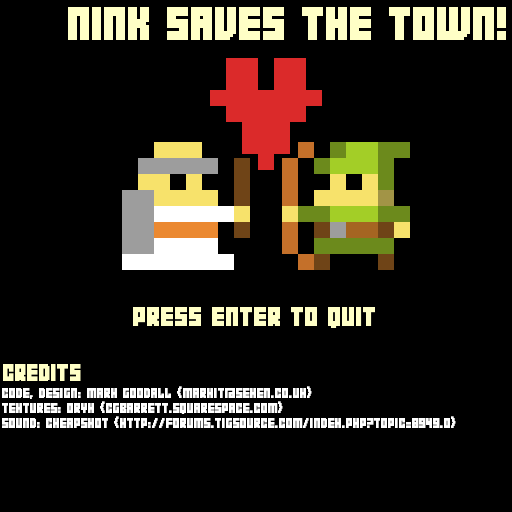
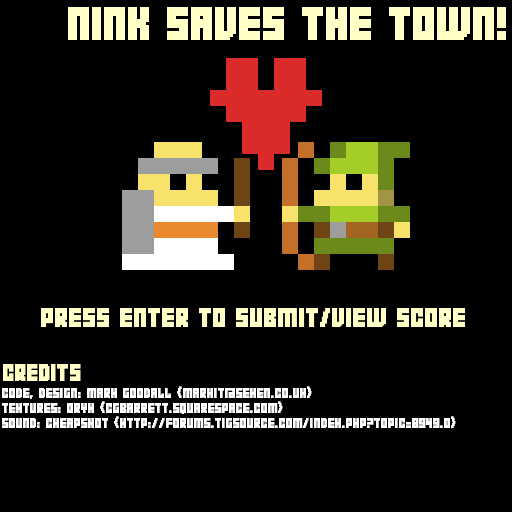
Added score submission, updated win page, added healthbar

Changed region(s): [[0.0625, 0.5938, 0.9062, 0.6562]]

diff --git a/app.py b/app.py
@@ -18,7 +18,7 @@ from friendly import Friendly
 from enemy import Enemy
 from gold import Gold
 from arrow import Arrow
-import time
+import webbrowser, hashlib
 
 def clamp(start, end, value):
 	'''
@@ -57,6 +57,10 @@ class Application(pyglet.window.Window):
 		self.winTexture = Texture.open('images/win.png', unit=GL_TEXTURE0, filter=GL_NEAREST)
 		self.make_menu_mesh()
 		
+		# Healthbar
+		self.heart = Texture.open('images/heart.png', unit=GL_TEXTURE0, filter=GL_NEAREST)
+		self.make_heart_meshes()
+		
 		# Sounds
 		self.bg_music = pyglet.media.load('sound/TIGshot.mp3')
 		self.win_sound = pyglet.media.load('sound/win.wav')
@@ -78,6 +82,7 @@ class Application(pyglet.window.Window):
 		self.program.vars.tex = Sampler2D(GL_TEXTURE0)
 		
 		# Map
+		self.map_name = map_name
 		mapimg = pyglet.image.load('map/'+map_name+'.png')
 		self.ground = self.create_ground(mapimg)
 		self.walls = self.create_walls(mapimg)
@@ -254,7 +259,13 @@ class Application(pyglet.window.Window):
 			map(self.arrows.remove, arrow_delete)
 			
 			# Update friends
-			map(lambda i : i.update(delta, self), self.friendly)
+			dead_friends = map(lambda i : i.update(delta, self), self.friendly)
+			dead_friends.reverse()
+			i = len(dead_friends)
+			for j in dead_friends:
+				i -= 1
+				if j == True:
+					self.friendly.pop(i)
 				
 			# Update enemy
 			map(lambda i : i.update(delta, self), self.enemy)
@@ -302,6 +313,12 @@ class Application(pyglet.window.Window):
 			arrow = Arrow(self.arrowTex, self.program, 1, 1, position, person.collisionMap, self.normal_mesh)
 			arrow.point(person.angle)
 			self.arrows.append(arrow)
+			
+	def fire_sword(self, person, other):
+		if person.cooldown < 0:
+			person.cooldown = 0.75
+			self.arrow_sound.play()
+			other.hit()
 	
 	def test_arrows(self):
 		hit_enemies = []
@@ -309,9 +326,11 @@ class Application(pyglet.window.Window):
 		for a in self.arrows:
 			for e in self.enemy:
 				if (a.position - e.position).len() < e.x/2:
-					hit_enemies.append(e)
 					hit_arrows.append(a)
-					self.goblin_death_sound.play()
+					e.hit()
+					if e.health <= 0:
+						hit_enemies.append(e)
+						self.goblin_death_sound.play()
 					break
 		remove = self.enemy.remove
 		map(remove, hit_enemies)
@@ -331,6 +350,8 @@ class Application(pyglet.window.Window):
 			
 			for i in transparency:
 				i.draw(self.projection, self.camera, self.player.position, light)
+				
+			self.draw_hearts()
 		else:
 			self.draw_menu(self.game)
 	
@@ -353,6 +374,18 @@ class Application(pyglet.window.Window):
 			
 		with nested(self.program, tex):
 			self.menu_mesh.draw(GL_QUADS)
+			
+	def draw_hearts(self):
+		self.program.vars.mvp = Matrix()
+		self.program.vars.modelview = Matrix()
+		self.program.vars.playerPosition = (0.0, 0.0, 0.0)
+		self.program.vars.playerLight = random.random()*0.1 + 0.9
+		with nested(self.program, self.heart):
+			count = int(self.player.health/10)
+			if self.player.health < 10 and self.player.health > 0:
+				count = 1
+			for i in range(count):
+				self.heart_mesh[i].draw(GL_QUADS)
 	
 	def make_menu_mesh(self):
 		position = [
@@ -380,6 +413,36 @@ class Application(pyglet.window.Window):
 			position_3=position,
 			texCoord_2=texCoord,
 			normal_3=normal)
+			
+	def make_heart_meshes(self):
+		texCoord = [
+			0, 1,
+			0, 0,
+			1, 0,
+			1, 1,
+		]
+		normal = [
+			0, 0, 1,
+			0, 0, 1,
+			0, 0, 1,
+			0, 0, 1,
+		]
+		texCoord = (c_float*len(texCoord))(*texCoord)
+		normal = (c_float*len(normal))(*normal)
+
+		self.heart_mesh = []
+		for i in range(10):
+			position = [
+				-0.95+i*0.05, 0.90, 0,
+				-0.95+i*0.05, 0.95, 0,
+				-0.95+i*0.05 + 0.05, 0.95, 0,
+				-0.95+i*0.05 + 0.05, 0.90, 0,
+			]
+			position = (c_float*len(position))(*position)
+			self.heart_mesh.append(VBO(4,
+				position_3=position,
+				texCoord_2=texCoord,
+				normal_3=normal))
 	
 	def update_camera(self):
 		pPos = self.player.position
@@ -390,10 +453,30 @@ class Application(pyglet.window.Window):
 			if self.game == 0:
 				self.game = 1
 				self.bg_music = self.bg_music.play()
-			elif self.game == 2 or self.game == 3 or self.game == 4:
+			elif self.game == 2 or self.game == 3:
 				exit()
+			elif self.game == 4:
+				md5 = self.calc_map_code()
+				score = self.calc_score()
+				webbrowser.open_new_tab('http://nink.seken.co.uk/?map=%s&score=%s'%(md5, str(score)))
+				exit()
+				
 		elif symbol == key.ESCAPE or symbol == key.Q:
 			exit()
+			
+	def calc_map_code(self):
+		m = hashlib.md5()
+		m.update(open('map/%s.png'%(self.map_name), 'rb').read())
+		m.update(open('map/%s.txt'%(self.map_name), 'rb').read())
+		return m.hexdigest()
+		
+	def calc_score(self):
+		score = 0.0
+		for i in self.friendly:
+			if (i.position - self.start_point).len() < 4:
+				score += i.gold
+		score = score * (600-self.time)
+		return score
 				
 	def on_mouse_motion(self, x, y, dx, dy):
 		return pyglet.event.EVENT_HANDLED
@@ -423,5 +506,5 @@ class Application(pyglet.window.Window):
 		return pyglet.event.EVENT_HANDLED
 
 if __name__ == '__main__':
-	window = Application('ground5')
+	window = Application('ground3')
 	pyglet.app.run()

diff --git a/genMap.py b/genMap.py
@@ -45,7 +45,7 @@ class Application(pyglet.window.Window):
 		self.mapSize = 64
 		self.mapTexture = Texture(self.mapSize, self.mapSize, data=[0,0,0,255]*(self.mapSize*self.mapSize))
 		
-		self.probContinue = 0.75
+		self.probContinue = 0.79
 		self.minSquares = 10
 		
 		# keep away from start and friends (and gold)
@@ -55,11 +55,11 @@ class Application(pyglet.window.Window):
 		self.husband_distance = 30
 		
 		# probability of placement
-		self.prob_goblin = 0.03
-		self.prob_friend = 0.03
-		self.prob_gold = 0.03
-		self.prob_king = 0.008
-		self.prob_husband = 0.008
+		self.prob_goblin = 0.1
+		self.prob_friend = 0.1
+		self.prob_gold = 0.1
+		self.prob_king = 0.01
+		self.prob_husband = 0.01
 		
 		self.new_map()
 		
@@ -120,7 +120,8 @@ class Application(pyglet.window.Window):
 		p = open('points.txt', 'w')
 		p.write('start, %d, %d\n'%(self.start_point[0], self.mapSize - self.start_point[1]))
 		p.write('husband, %d, %d\n'%(self.husband[0], self.mapSize - self.husband[1]))
-		p.write('king, %d, %d\n'%(self.king_goblin[0], self.mapSize - self.king_goblin[1]))
+		if self.king_goblin != None:
+			p.write('king, %d, %d\n'%(self.king_goblin[0], self.mapSize - self.king_goblin[1]))
 		for i in self.friendly:
 			p.write('friend, %d, %d\n'%(i[0], self.mapSize - i[1]))
 		for i in self.gold:
@@ -157,9 +158,9 @@ class Application(pyglet.window.Window):
 			point = points[0]
 			points = points[1:]
 			
-			if point[0] < 0 or point[0] >= self.mapSize:
+			if point[0] < 1 or point[0] >= self.mapSize-1:
 				continue
-			if point[1] < 0 or point[1] >= self.mapSize:
+			if point[1] < 1 or point[1] >= self.mapSize-1:
 				continue
 			
 			if self.can_add(point):
@@ -205,6 +206,10 @@ class Application(pyglet.window.Window):
 					self.add_goblin_king((x,y))
 					self.add_friend((x,y))
 
+		print 'goblins: %s'%(len(self.goblin))
+		print 'friendly: %s'%(len(self.friendly))
+		print 'gold: %s'%(len(self.gold))
+		
 		self.mapTexture.update()
 		with nested(self.mapTexture):
 			glTexParameteri(GL_TEXTURE_2D, GL_TEXTURE_MAG_FILTER, GL_NEAREST)

diff --git a/friendly.py b/friendly.py
@@ -55,7 +55,7 @@ class Friendly(Protagonist):
 				else:
 					if distance.len() < 1.0:
 						self.point(-distance.toAngle() + 0.25)
-						state.fire_arrow(self)
+						state.fire_sword(self, i)
 						uMoved = True
 						break
 		
@@ -67,6 +67,8 @@ class Friendly(Protagonist):
 				if distance.len() > 2.0:
 					self.move(Vector(2.0, 0, 0)*delta)
 			super(Friendly, self).update(delta, state)
+			
+		return self.health <= 0
 		
 	def poked(self):
 		self.pokeTimer = 4.0

diff --git a/enemy.py b/enemy.py
@@ -5,6 +5,7 @@ class Enemy(Protagonist):
 	def __init__(self, texture, program, x, y, position, collisionMap, mesh):
 		super(Enemy, self).__init__(texture, program, x, y, position, collisionMap, mesh)
 		self.cooldown = 0.0
+		self.health = 30
 		
 	def update(self, delta, state):
 		self.cooldown -= delta
